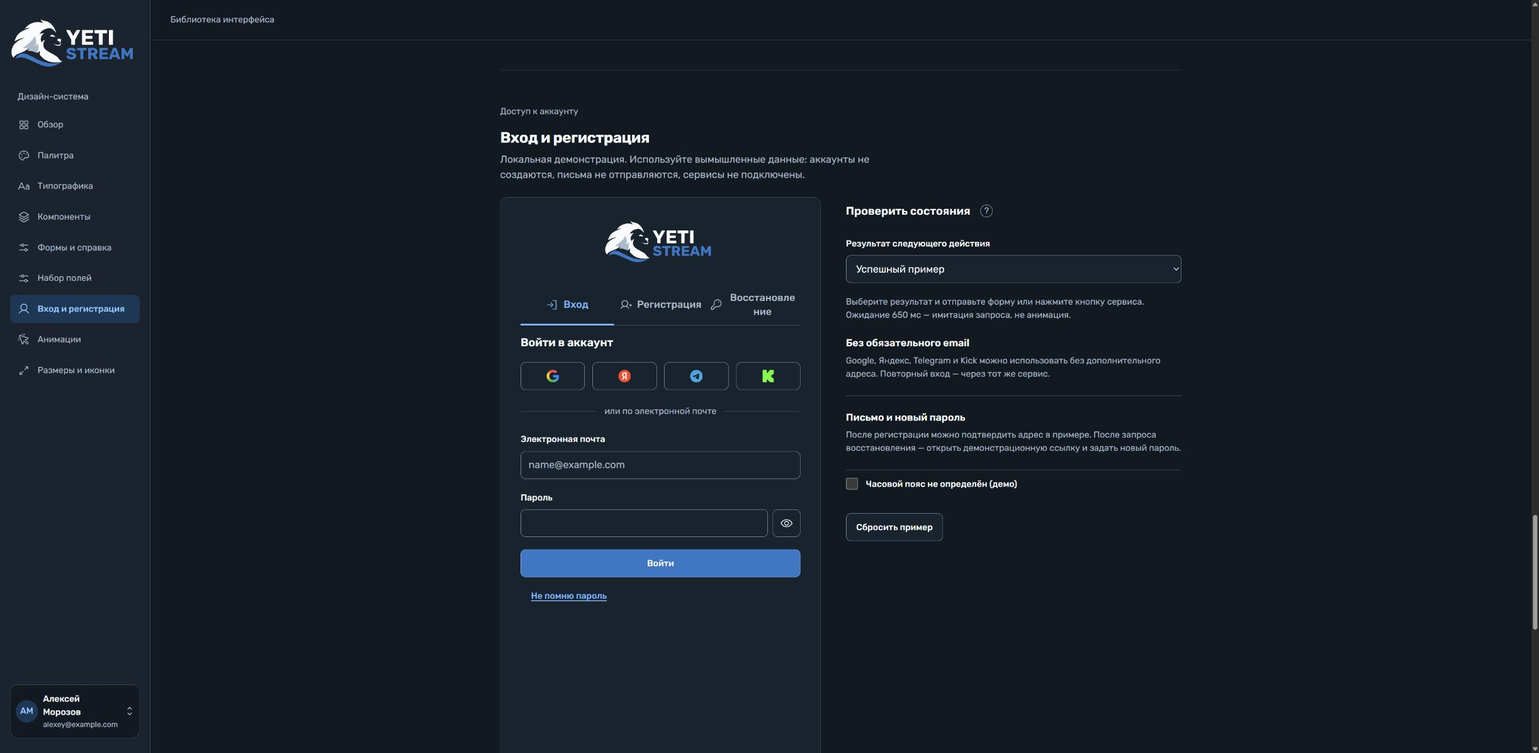
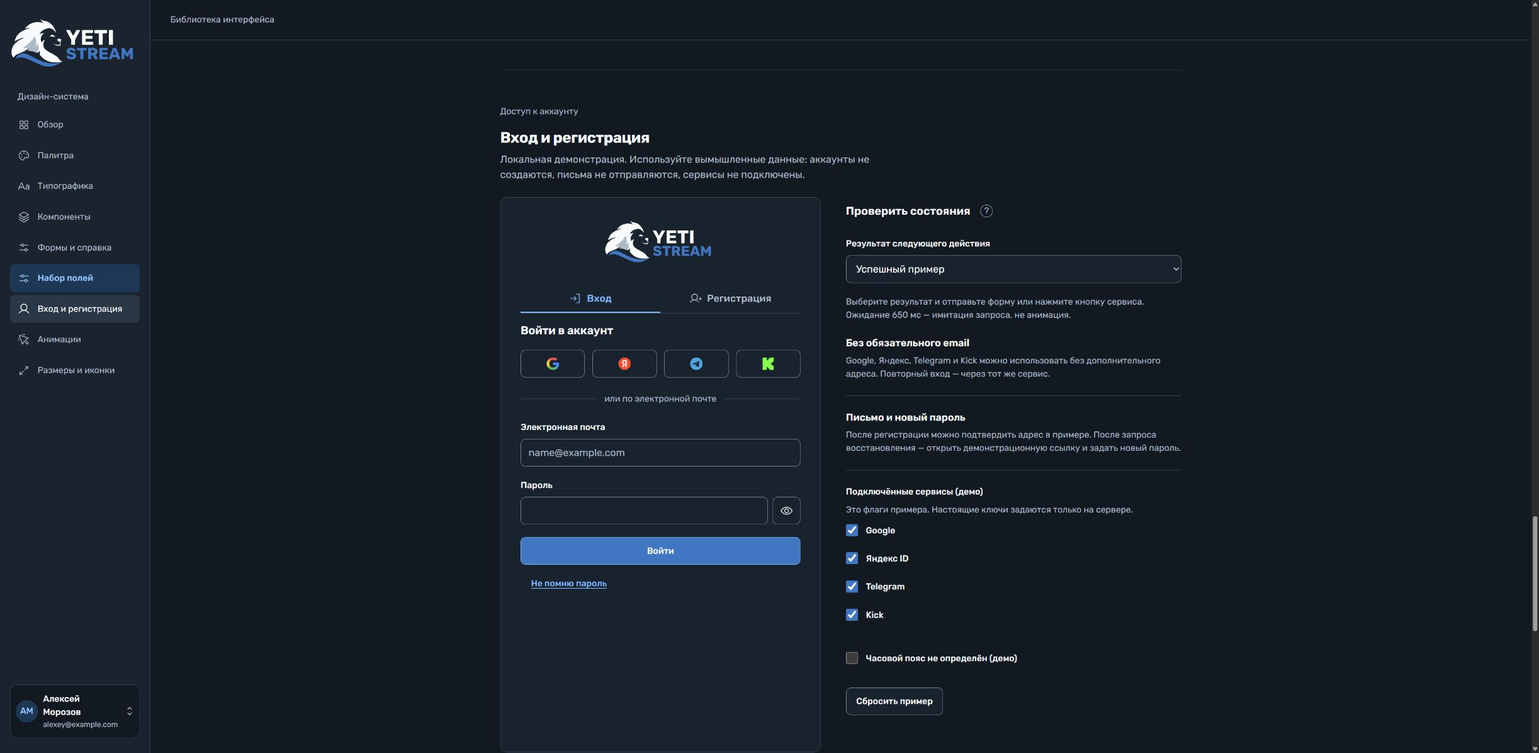
fixed bug

diff --git a/docs/design/showcase.js b/docs/design/showcase.js
@@ -137,10 +137,10 @@
     // CSS crossfade is interruptible; selection and accessibility update immediately.
   }
   tabs.forEach(tab => {
-    const groupTabs = [...tab.closest('[role="tablist"]').querySelectorAll('[role="tab"]')];
-    const index = groupTabs.indexOf(tab);
     tab.addEventListener('click', () => { selectTab(tab); syncAccountTab(tab); });
     tab.addEventListener('keydown', event => {
+      const groupTabs = [...tab.closest('[role="tablist"]').querySelectorAll('[role="tab"]')].filter(item => !item.hidden);
+      const index = groupTabs.indexOf(tab);
       let next;
       if (event.key === 'ArrowRight') next = (index + 1) % groupTabs.length;
       if (event.key === 'ArrowLeft') next = (index - 1 + groupTabs.length) % groupTabs.length;
@@ -589,7 +589,7 @@
   function validateAuthField(input) {
     let error = '';
     if (!input.value) error = input.tagName === 'SELECT' ? 'Выберите часовой пояс.' : input.type === 'email' ? 'Укажите электронную почту.' : 'Введите пароль.';
-    else if (input.id === 'auth-register-confirm' && input.value !== byId('auth-register-password').value) error = 'Пароли не совпадают. Повторите пароль ещё раз.';
+    else if (['auth-register-confirm', 'auth-reset-confirm'].includes(input.id) && input.value !== byId(input.id.replace('-confirm', '-password')).value) error = 'Пароли не совпадают. Повторите пароль ещё раз.';
     else if (input.type === 'email' && input.validity.typeMismatch) error = 'Укажите адрес в формате name@example.com.';
     else if (input.autocomplete === 'new-password' && [...input.value].length < 15) error = 'В примере нужно не менее 15 символов. Можно использовать фразу с пробелами.';
     const message = byId(input.id + '-error');
@@ -625,6 +625,10 @@
   }
   function showAuthTab(name) {
     clearAuthFeedback();
+    const recovery = name === 'recover';
+    byId('tab-auth-login').hidden = recovery;
+    byId('tab-auth-register').hidden = recovery;
+    byId('tab-auth-recover').hidden = !recovery;
     selectTab(byId('tab-auth-' + name), true);
   }
   function resetRecovery() {
@@ -636,7 +640,10 @@
       input.addEventListener('blur', () => { validateAuthField(input); updateAuthSummary(form); });
       input.addEventListener('input', () => {
         clearAuthFeedback();
-        if (input.id === 'auth-register-password' && byId('auth-register-confirm').hasAttribute('aria-invalid')) validateAuthField(byId('auth-register-confirm'));
+        if (['auth-register-password', 'auth-reset-password'].includes(input.id)) {
+          const confirmation = byId(input.id.replace('-password', '-confirm'));
+          if (confirmation.hasAttribute('aria-invalid')) validateAuthField(confirmation);
+        }
         if (input.hasAttribute('aria-invalid')) validateAuthField(input);
         updateAuthSummary(form);
       });
@@ -677,7 +684,7 @@
     const visible = input.type === 'password';
     input.type = visible ? 'text' : 'password';
     button.querySelector('use').setAttribute('href', visible ? '#icon-eye-slash' : '#icon-eye');
-    button.setAttribute('aria-label', (visible ? 'Скрыть ' : 'Показать ') + (input.id === 'auth-register-confirm' ? 'повтор пароля' : 'пароль'));
+    button.setAttribute('aria-label', (visible ? 'Скрыть ' : 'Показать ') + (input.id.endsWith('-confirm') ? 'повтор пароля' : 'пароль'));
     button.setAttribute('aria-pressed', String(visible));
   }));
   auth.querySelectorAll('[data-auth-provider]').forEach(button => button.addEventListener('click', () => {
@@ -724,11 +731,31 @@
       form.querySelectorAll('input, select').forEach(input => { input.removeAttribute('aria-invalid'); byId(input.id + '-error').hidden = true; });
     });
     auth.querySelectorAll('[data-password-toggle]').forEach(button => {
-      byId(button.dataset.passwordToggle).type = 'password'; button.querySelector('use').setAttribute('href', '#icon-eye'); button.setAttribute('aria-label', button.dataset.passwordToggle === 'auth-register-confirm' ? 'Показать повтор пароля' : 'Показать пароль'); button.setAttribute('aria-pressed', 'false');
+      byId(button.dataset.passwordToggle).type = 'password'; button.querySelector('use').setAttribute('href', '#icon-eye'); button.setAttribute('aria-label', button.dataset.passwordToggle.endsWith('-confirm') ? 'Показать повтор пароля' : 'Показать пароль'); button.setAttribute('aria-pressed', 'false');
     });
+    auth.querySelectorAll('[data-auth-service]').forEach(control => { control.checked = true; authProviderAvailability[control.dataset.authService] = true; }); updateAuthProviders();
     byId('auth-timezone-unavailable').checked = false; updateAuthTimezone();
     scenario.value = 'ok'; showAuthTab('login');
   });
+  // Public availability flags only. Production derives these from server configuration.
+  const authProviderAvailability = { google: true, yandex: true, telegram: true, kick: true };
+  const providerKeys = { 'Google': 'google', 'Яндекс ID': 'yandex', 'Telegram': 'telegram', 'Kick': 'kick' };
+  function updateAuthProviders() {
+    clearAuthFeedback(); closeHelp();
+    auth.querySelectorAll('.auth-providers').forEach(group => {
+      const buttons = [...group.querySelectorAll('[data-auth-provider]')];
+      buttons.forEach(button => { button.hidden = authProviderAvailability[providerKeys[button.dataset.authProvider]] !== true; });
+      const count = buttons.filter(button => !button.hidden).length;
+      group.hidden = count === 0;
+      group.style.setProperty('--auth-provider-columns', String(Math.min(4, Math.max(1, count))));
+      group.nextElementSibling.hidden = count === 0;
+    });
+  }
+  auth.querySelectorAll('[data-auth-service]').forEach(control => {
+    control.checked = authProviderAvailability[control.dataset.authService] === true;
+    control.addEventListener('change', () => { authProviderAvailability[control.dataset.authService] = control.checked; updateAuthProviders(); });
+  });
+  updateAuthProviders();
   const timezoneSelect = byId('auth-register-timezone');
   let detectedTimezone = '';
   try { detectedTimezone = Intl.DateTimeFormat().resolvedOptions().timeZone || ''; } catch (_) {}

diff --git a/design-system.html b/design-system.html
@@ -12,8 +12,8 @@
   </script>
   <link rel="stylesheet" href="tokens.css?v=c61a04710a9b">
   <link rel="stylesheet" href="docs/design/assets/fonts.css?v=cec7bf09795d">
-  <link rel="stylesheet" href="docs/design/showcase.css?v=2bfa16ff7e53">
-  <script defer src="docs/design/showcase.js?v=32e89d0b9aec"></script>
+  <link rel="stylesheet" href="docs/design/showcase.css?v=a534db23fdea">
+  <script defer src="docs/design/showcase.js?v=6857f381a178"></script>
 </head>
 <body>
   <a class="skip-link" href="#main">Перейти к содержимому</a>
@@ -260,7 +260,7 @@
             <div class="tabs auth-tabs" role="tablist" aria-label="Доступ к аккаунту">
               <button type="button" role="tab" id="tab-auth-login" aria-controls="panel-auth-login" aria-selected="true"><svg class="icon" aria-hidden="true"><use href="#icon-sign-in"></use></svg><span>Вход</span></button>
               <button type="button" role="tab" id="tab-auth-register" aria-controls="panel-auth-register" aria-selected="false" tabindex="-1"><svg class="icon" aria-hidden="true"><use href="#icon-user-plus"></use></svg><span>Регистрация</span></button>
-              <button type="button" role="tab" id="tab-auth-recover" aria-controls="panel-auth-recover" aria-selected="false" tabindex="-1"><svg class="icon" aria-hidden="true"><use href="#icon-key"></use></svg><span>Восстановление</span></button>
+              <button type="button" role="tab" id="tab-auth-recover" hidden aria-controls="panel-auth-recover" aria-selected="false" tabindex="-1"><svg class="icon" aria-hidden="true"><use href="#icon-key"></use></svg><span>Восстановление</span></button>
             </div>
             <div class="tab-panels auth-panels">
               <div class="tab-panel" id="panel-auth-login" role="tabpanel" aria-labelledby="tab-auth-login" data-active="true" tabindex="0">
@@ -307,7 +307,7 @@
                   <form id="auth-reset-form" method="dialog" novalidate data-auth-form="reset">
                     <div class="error-summary" tabindex="-1" hidden></div>
                     <div class="field"><label for="auth-reset-password">Новый пароль</label><div class="auth-password"><input id="auth-reset-password" autocapitalize="none" spellcheck="false" type="password" autocomplete="new-password" required aria-describedby="auth-reset-password-hint auth-reset-password-error"><button class="btn" type="button" data-password-toggle="auth-reset-password" aria-label="Показать пароль" aria-pressed="false"><svg class="icon" aria-hidden="true"><use href="#icon-eye"></use></svg></button></div><p class="small secondary" id="auth-reset-password-hint">В примере: от 15 символов. Пробелы разрешены.</p><p class="field-error" id="auth-reset-password-error" hidden></p></div>
-                    <button class="btn primary auth-submit" type="submit">Сохранить пароль</button>
+                    <div class="field"><label for="auth-reset-confirm">Повторите новый пароль</label><div class="auth-password"><input id="auth-reset-confirm" type="password" autocomplete="new-password" autocapitalize="none" spellcheck="false" required aria-describedby="auth-reset-confirm-error"><button class="btn" type="button" data-password-toggle="auth-reset-confirm" aria-label="Показать повтор пароля" aria-pressed="false"><svg class="icon" aria-hidden="true"><use href="#icon-eye"></use></svg></button></div><p id="auth-reset-confirm-error" class="field-error" hidden></p></div><button class="btn primary auth-submit" type="submit">Сохранить пароль</button>
                   </form>
                 </div>
                 <button class="btn auth-text-button" type="button" id="auth-recovery-back">Вернуться ко входу</button>
@@ -323,7 +323,7 @@
             <div class="auth-note"><h3>Без обязательного email</h3><p class="small secondary">Google, Яндекс, Telegram и Kick можно использовать без дополнительного адреса. Повторный вход — через тот же сервис.</p></div>
 
             <div class="auth-note"><h3>Письмо и новый пароль</h3><p class="small secondary">После регистрации можно подтвердить адрес в примере. После запроса восстановления — открыть демонстрационную ссылку и задать новый пароль.</p></div>
-            <label class="choice-row"><input type="checkbox" id="auth-timezone-unavailable"><span>Часовой пояс не определён (демо)</span></label><button class="btn" type="button" id="auth-clear">Сбросить пример</button>
+            <fieldset class="choice-group auth-config"><legend>Подключённые сервисы (демо)</legend><p class="small secondary">Это флаги примера. Настоящие ключи задаются только на сервере.</p><label class="choice-row"><input type="checkbox" data-auth-service="google" checked><span>Google</span></label><label class="choice-row"><input type="checkbox" data-auth-service="yandex" checked><span>Яндекс ID</span></label><label class="choice-row"><input type="checkbox" data-auth-service="telegram" checked><span>Telegram</span></label><label class="choice-row"><input type="checkbox" data-auth-service="kick" checked><span>Kick</span></label></fieldset><label class="choice-row"><input type="checkbox" id="auth-timezone-unavailable"><span>Часовой пояс не определён (демо)</span></label><button class="btn" type="button" id="auth-clear">Сбросить пример</button>
           </aside>
         </div>
       </section>

diff --git a/docs/design/showcase.css b/docs/design/showcase.css
@@ -429,3 +429,7 @@ dialog::backdrop { background: var(--color-scrim); }
 .auth-providers { grid-template-columns: repeat(4, minmax(0, 1fr)); }
 .auth-providers .btn { min-width: 44px; min-height: 44px; padding: var(--space-2); }
 .visually-hidden { position: absolute; width: 1px; height: 1px; padding: 0; margin: -1px; overflow: hidden; clip-path: inset(50%); white-space: nowrap; border: 0; }
+
+.auth-providers { display: flex; flex-wrap: wrap; justify-content: center; }
+.auth-providers .btn { flex: 0 0 calc((100% - (var(--auth-provider-columns, 4) - 1) * var(--space-3)) / var(--auth-provider-columns, 4)); }
+.auth-config { margin-block: var(--space-6); }

diff --git a/docs/design/showcase.md b/docs/design/showcase.md
@@ -22,7 +22,7 @@ py C:\www\yeti\docs\design\serve.py
 
 ### Вход, регистрация и восстановление
 
-Откройте [Вход и регистрация](../../design-system.html#auth) в меню или [на порту 100](http://127.0.0.1:100/#auth). Три равные вкладки с иконками показывают вход, регистрацию и восстановление; кнопки Google, Яндекс ID, Telegram и Kick локальные. Email после внешнего входа не запрашивается. Справа (на телефоне ниже) — выбор результата: успех, отказ, ошибка соединения, отмена сервиса, недействительная ссылка. Смена поля, вкладки, сценария и отмена прерывают демо-ожидание, старый результат не появляется.
+Откройте [Вход и регистрация](../../design-system.html#auth) в меню или [на порту 100](http://127.0.0.1:100/#auth). Две вкладки показывают вход и регистрацию; после «Не помню пароль» их заменяет единственная вкладка восстановления; кнопки Google, Яндекс ID, Telegram и Kick локальные. Email после внешнего входа не запрашивается. Справа (на телефоне ниже) — выбор результата: успех, отказ, ошибка соединения, отмена сервиса, недействительная ссылка. Смена поля, вкладки, сценария и отмена прерывают демо-ожидание, старый результат не появляется.
 
 Регистрация показывает общий ответ о письме и кнопку демонстрационного подтверждения адреса. Восстановление показывает общий ответ, кнопку открытия ссылки, затем новый пароль и возврат ко входу. Недействительную ссылку выбирайте до отправки формы. Пароль ≥15 символов — только ограничение примера, данные не отправляются и не сохраняются. Не вводите настоящие пароли. Согласия и реальные документы пока не подготовлены. [Полный сценарий ручной проверки и инструкция реализации](auth.md).
 
@@ -97,3 +97,7 @@ py C:\www\yeti\docs\design\serve.py
 Уточнение от 2 ноября: только Google без YouTube; фирменные цветные знаки сервисов, глаз вместо текста показа пароля; без видимых пометок обязательности (required сохранён). Регистрация: повтор пароля и проверка совпадения, определение часового пояса браузером; при неудаче — выбор IANA-зоны. В витрине есть переключатель для проверки неудачи определения.
 
 Последнее уточнение: кнопки Google, Яндекс ID, Telegram и Kick показывают только фирменные иконки, в один ряд. Каждая имеет доступное имя «Продолжить через …», подсказку по наведению/фокусу/касанию и область нажатия минимум 44 × 44 px. Иконки остаются на месте при ожидании и после результата.
+
+Последнее уточнение форм доступа: восстановление не является третьей постоянной вкладкой. «Не помню пароль» заменяет вкладки входа/регистрации единственной вкладкой «Восстановление»; возврат восстанавливает две вкладки и фокус входа. Новый пароль при восстановлении вводится дважды, несовпадение проверяется у повтора и повторно при изменении первого поля.
+
+Сервисы без настроенных серверных учётных данных отсутствуют в списке. Для будущей реализации сервер проверяет полный комплект настроек каждого провайдера и передаёт клиенту только признаки доступности; секреты в HTML/JS не передаются. Проверять разрешённость также на сервере при старте и callback OAuth. Витрина использует authProviderAvailability в showcase.js и checkbox «Подключённые сервисы (демо)», без настоящих ключей. Кнопки равной ширины, до четырёх в ряд; при 1–3 сервисах заполняют ряд поровну, при большем числе сохраняют одинаковую ширину и центрируют неполный последний ряд. Если сервисов нет, скрываются группа и разделитель, email-форма остаётся. Смена конфигурации отменяет ожидание; «Сбросить пример» возвращает все четыре сервиса.

diff --git a/docs/design/verification.md b/docs/design/verification.md
@@ -218,3 +218,7 @@ Hallmark self-critique для спецификации: Philosophy 4, Hierarchy 
 Обновлены глаза Phosphor, фирменные цветные знаки, подпись Google, повтор пароля и условный выбор часового пояса; пометки обязательности убраны только в формах доступа. В Chrome вручную проверены: несовпадающие пароли и исправление; раскрытие повтора пароля; автоматический Europe/Moscow; демонстрационная неудача определения, ошибка пустого выбора и успешный America/New_York; регистрационный ответ; сохранение иконки Google после ожидания. На фактических 320 CSS px clientWidth=scrollWidth=308 px, кнопка глаза 44 px. Новые значки визуально просмотрены в тёмной теме. JS syntax, уникальность id, связи label/ARIA и git diff --check проверены без ошибок. Полный повтор всех сценариев во всех темах, screen reader и zoom 200% не выполнялись; автотесты не добавлялись.
 
 Кнопки сервисов только с иконками: в Chrome проверены доступные имена четырёх действий, подсказка при переходе клавиатурой к Яндексу, локальный успех Google с сохранённой иконкой. На 320 CSS px кнопки около 51,6 × 44 px; clientWidth = scrollWidth = 308 px. JS syntax и git diff --check без ошибок.
+
+## Восстановление и доступность провайдеров — 2 ноября 2026 года
+
+В Chrome проверены: две исходные вкладки; «Не помню пароль» оставляет единственную вкладку восстановления; запрос письма, форма нового пароля, ошибка несовпадения, исправление, локальный успех и возврат к двум вкладкам. ArrowRight переключает только вход/регистрацию. Последовательное отключение провайдеров дало 3 равные кнопки (~140,9 px), 2 (~217,4 px), 1 (~446,7 px); при нуле скрыты группа и разделитель. Сброс возвращает четыре сервиса. На 320 CSS px clientWidth=scrollWidth=308 px. Ошибок консоли нет; syntax check, уникальность id, связи ARIA/label и git diff --check без ошибок. Более четырёх реальных провайдеров в макете нет: перенос и центрирование определены общим flex-правилом, отдельный браузерный прогон 5+ не выполнялся. Реальная серверная конфигурация и OAuth не реализованы.

diff --git a/AGENTS.md b/AGENTS.md
@@ -133,3 +133,7 @@ YETI STREAM проектируется как веб-сервис управле
 Уточнение от 2 ноября: только Google без YouTube; фирменные цветные знаки сервисов, глаз вместо текста показа пароля; без видимых пометок обязательности (required сохранён). Регистрация: повтор пароля и проверка совпадения, определение часового пояса браузером; при неудаче — выбор IANA-зоны. В витрине есть переключатель для проверки неудачи определения.
 
 Последнее уточнение: кнопки Google, Яндекс ID, Telegram и Kick показывают только фирменные иконки, в один ряд. Каждая имеет доступное имя «Продолжить через …», подсказку по наведению/фокусу/касанию и область нажатия минимум 44 × 44 px. Иконки остаются на месте при ожидании и после результата.
+
+Последнее уточнение форм доступа: восстановление не является третьей постоянной вкладкой. «Не помню пароль» заменяет вкладки входа/регистрации единственной вкладкой «Восстановление»; возврат восстанавливает две вкладки и фокус входа. Новый пароль при восстановлении вводится дважды, несовпадение проверяется у повтора и повторно при изменении первого поля.
+
+Сервисы без настроенных серверных учётных данных отсутствуют в списке. Для будущей реализации сервер проверяет полный комплект настроек каждого провайдера и передаёт клиенту только признаки доступности; секреты в HTML/JS не передаются. Проверять разрешённость также на сервере при старте и callback OAuth. Витрина использует authProviderAvailability в showcase.js и checkbox «Подключённые сервисы (демо)», без настоящих ключей. Кнопки равной ширины, до четырёх в ряд; при 1–3 сервисах заполняют ряд поровну, при большем числе сохраняют одинаковую ширину и центрируют неполный последний ряд. Если сервисов нет, скрываются группа и разделитель, email-форма остаётся. Смена конфигурации отменяет ожидание; «Сбросить пример» возвращает все четыре сервиса.

diff --git a/docs/decisions.md b/docs/decisions.md
@@ -102,3 +102,7 @@
 Уточнение от 2 ноября: только Google без YouTube; фирменные цветные знаки сервисов, глаз вместо текста показа пароля; без видимых пометок обязательности (required сохранён). Регистрация: повтор пароля и проверка совпадения, определение часового пояса браузером; при неудаче — выбор IANA-зоны. В витрине есть переключатель для проверки неудачи определения.
 
 Последнее уточнение: кнопки Google, Яндекс ID, Telegram и Kick показывают только фирменные иконки, в один ряд. Каждая имеет доступное имя «Продолжить через …», подсказку по наведению/фокусу/касанию и область нажатия минимум 44 × 44 px. Иконки остаются на месте при ожидании и после результата.
+
+Последнее уточнение форм доступа: восстановление не является третьей постоянной вкладкой. «Не помню пароль» заменяет вкладки входа/регистрации единственной вкладкой «Восстановление»; возврат восстанавливает две вкладки и фокус входа. Новый пароль при восстановлении вводится дважды, несовпадение проверяется у повтора и повторно при изменении первого поля.
+
+Сервисы без настроенных серверных учётных данных отсутствуют в списке. Для будущей реализации сервер проверяет полный комплект настроек каждого провайдера и передаёт клиенту только признаки доступности; секреты в HTML/JS не передаются. Проверять разрешённость также на сервере при старте и callback OAuth. Витрина использует authProviderAvailability в showcase.js и checkbox «Подключённые сервисы (демо)», без настоящих ключей. Кнопки равной ширины, до четырёх в ряд; при 1–3 сервисах заполняют ряд поровну, при большем числе сохраняют одинаковую ширину и центрируют неполный последний ряд. Если сервисов нет, скрываются группа и разделитель, email-форма остаётся. Смена конфигурации отменяет ожидание; «Сбросить пример» возвращает все четыре сервиса.
